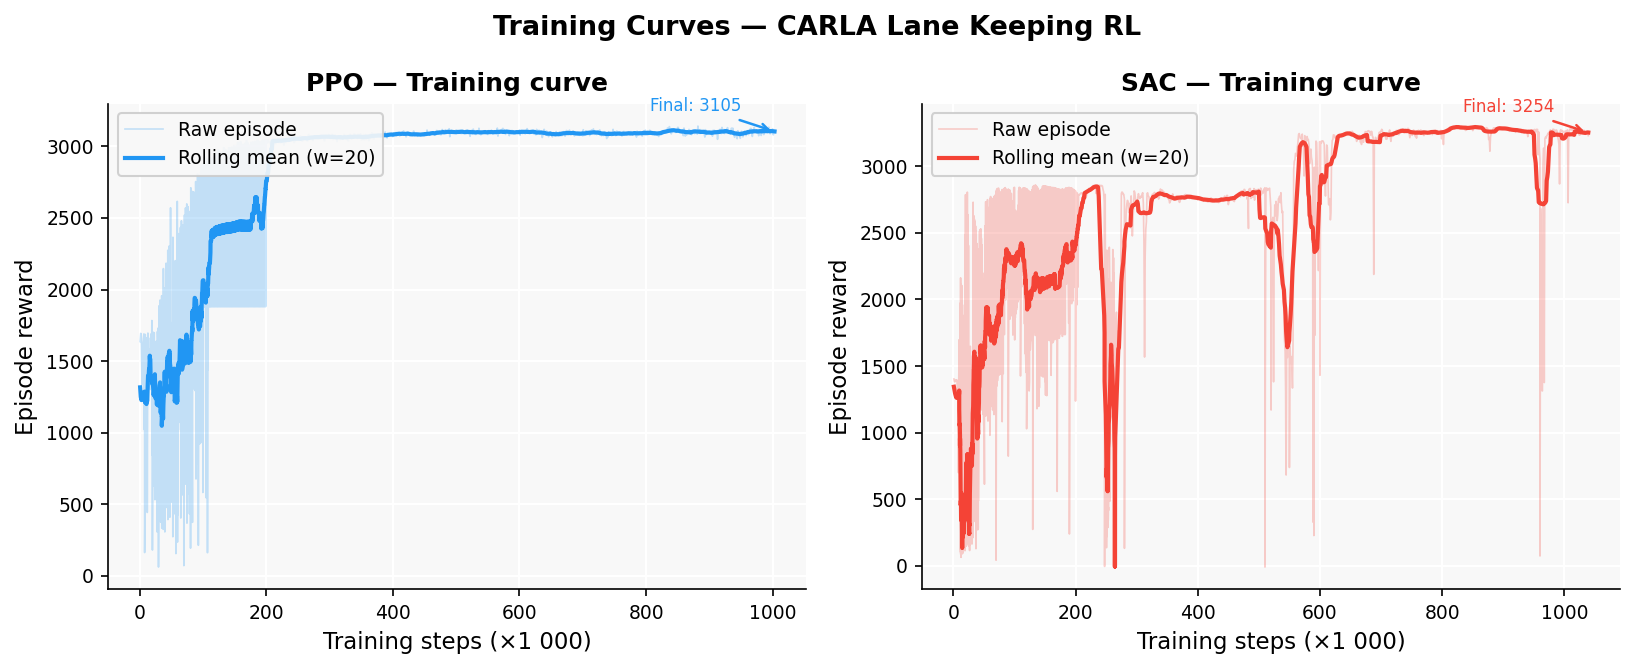
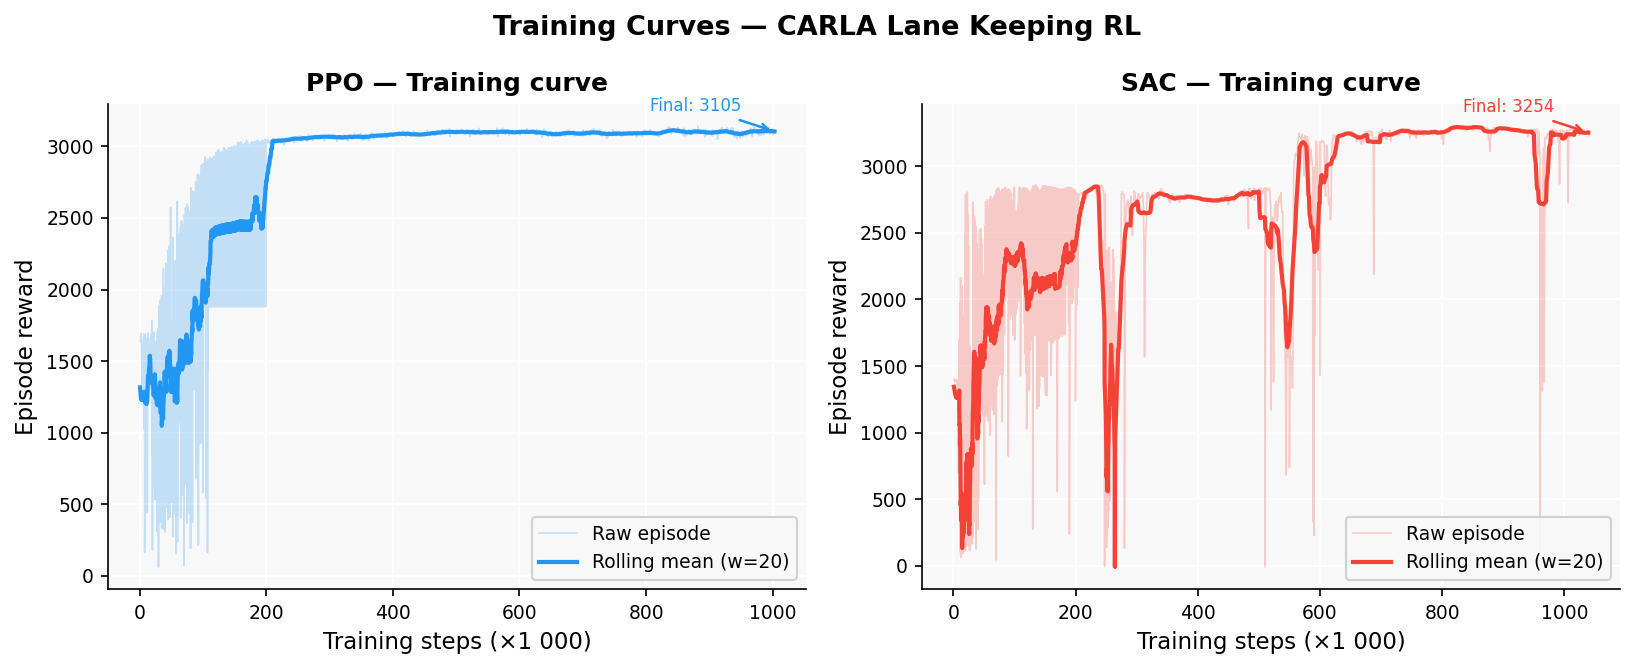
Move legend to lower right in training curves plot

diff --git a/scripts/plot_metrics.py b/scripts/plot_metrics.py
@@ -259,7 +259,7 @@ def plot_training_curves(outdir, smooth_window=20):
         ax.set_xlabel("Training steps (×1 000)")
         ax.set_ylabel("Episode reward")
         ax.set_title("{} — Training curve".format(algo.upper()))
-        ax.legend(loc="upper left")
+        ax.legend(loc="lower right")
 
         # Annotate final rolling mean value
         final_val = smooth[-1]
